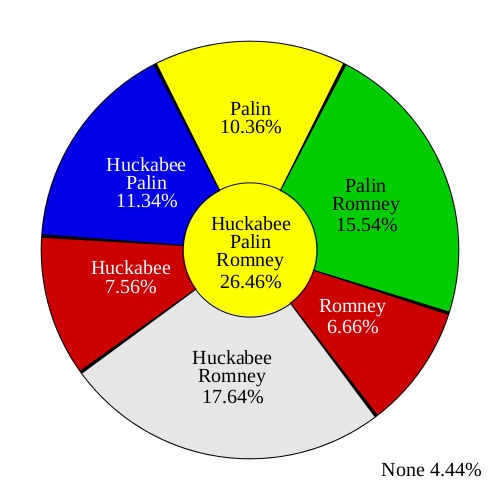
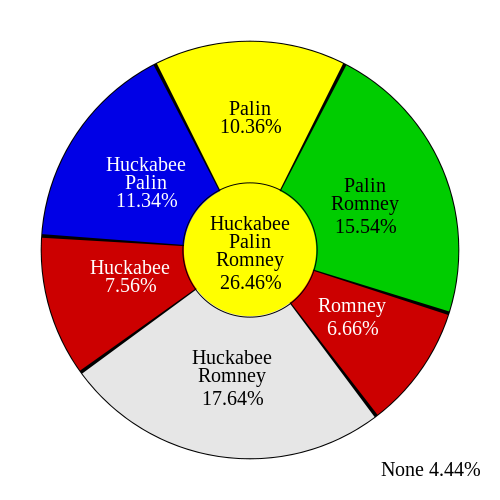
remove superfluous .svg file output

diff --git a/beachball.py b/beachball.py
@@ -74,10 +74,9 @@ def set_text_color(cr, bgrgb):
 		cr.set_source_rgb(0, 0, 0)
 
 # set up
-surface = cairo.SVGSurface(filename + '.svg', width, height)
+surface = cairo.ImageSurface(cairo.FORMAT_ARGB32, int(width), int(height))
 
 cr = cairo.Context(surface)
-
 cr.select_font_face(fontname)
 cr.set_font_size(fontsize)
 
